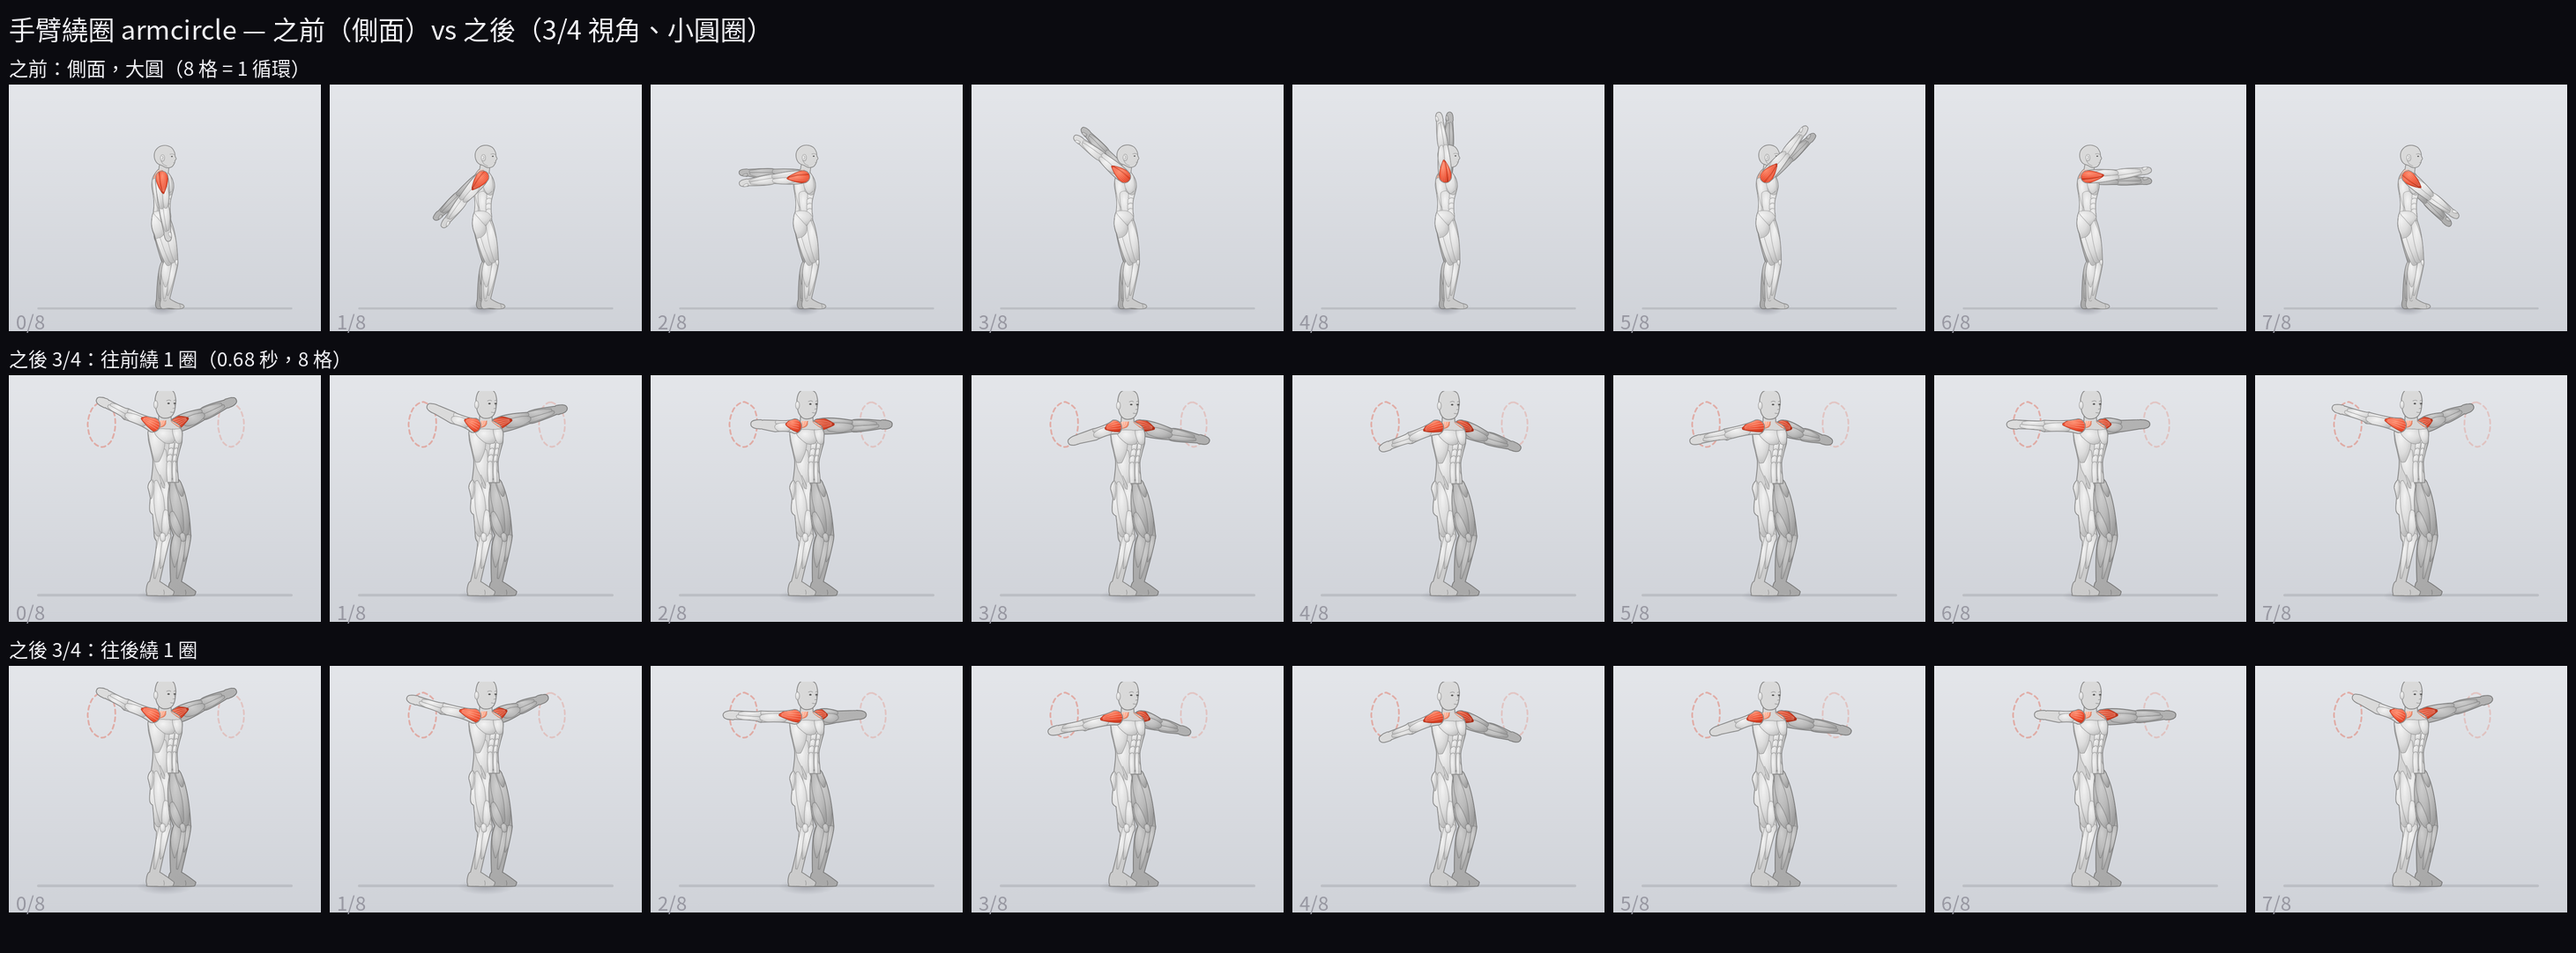
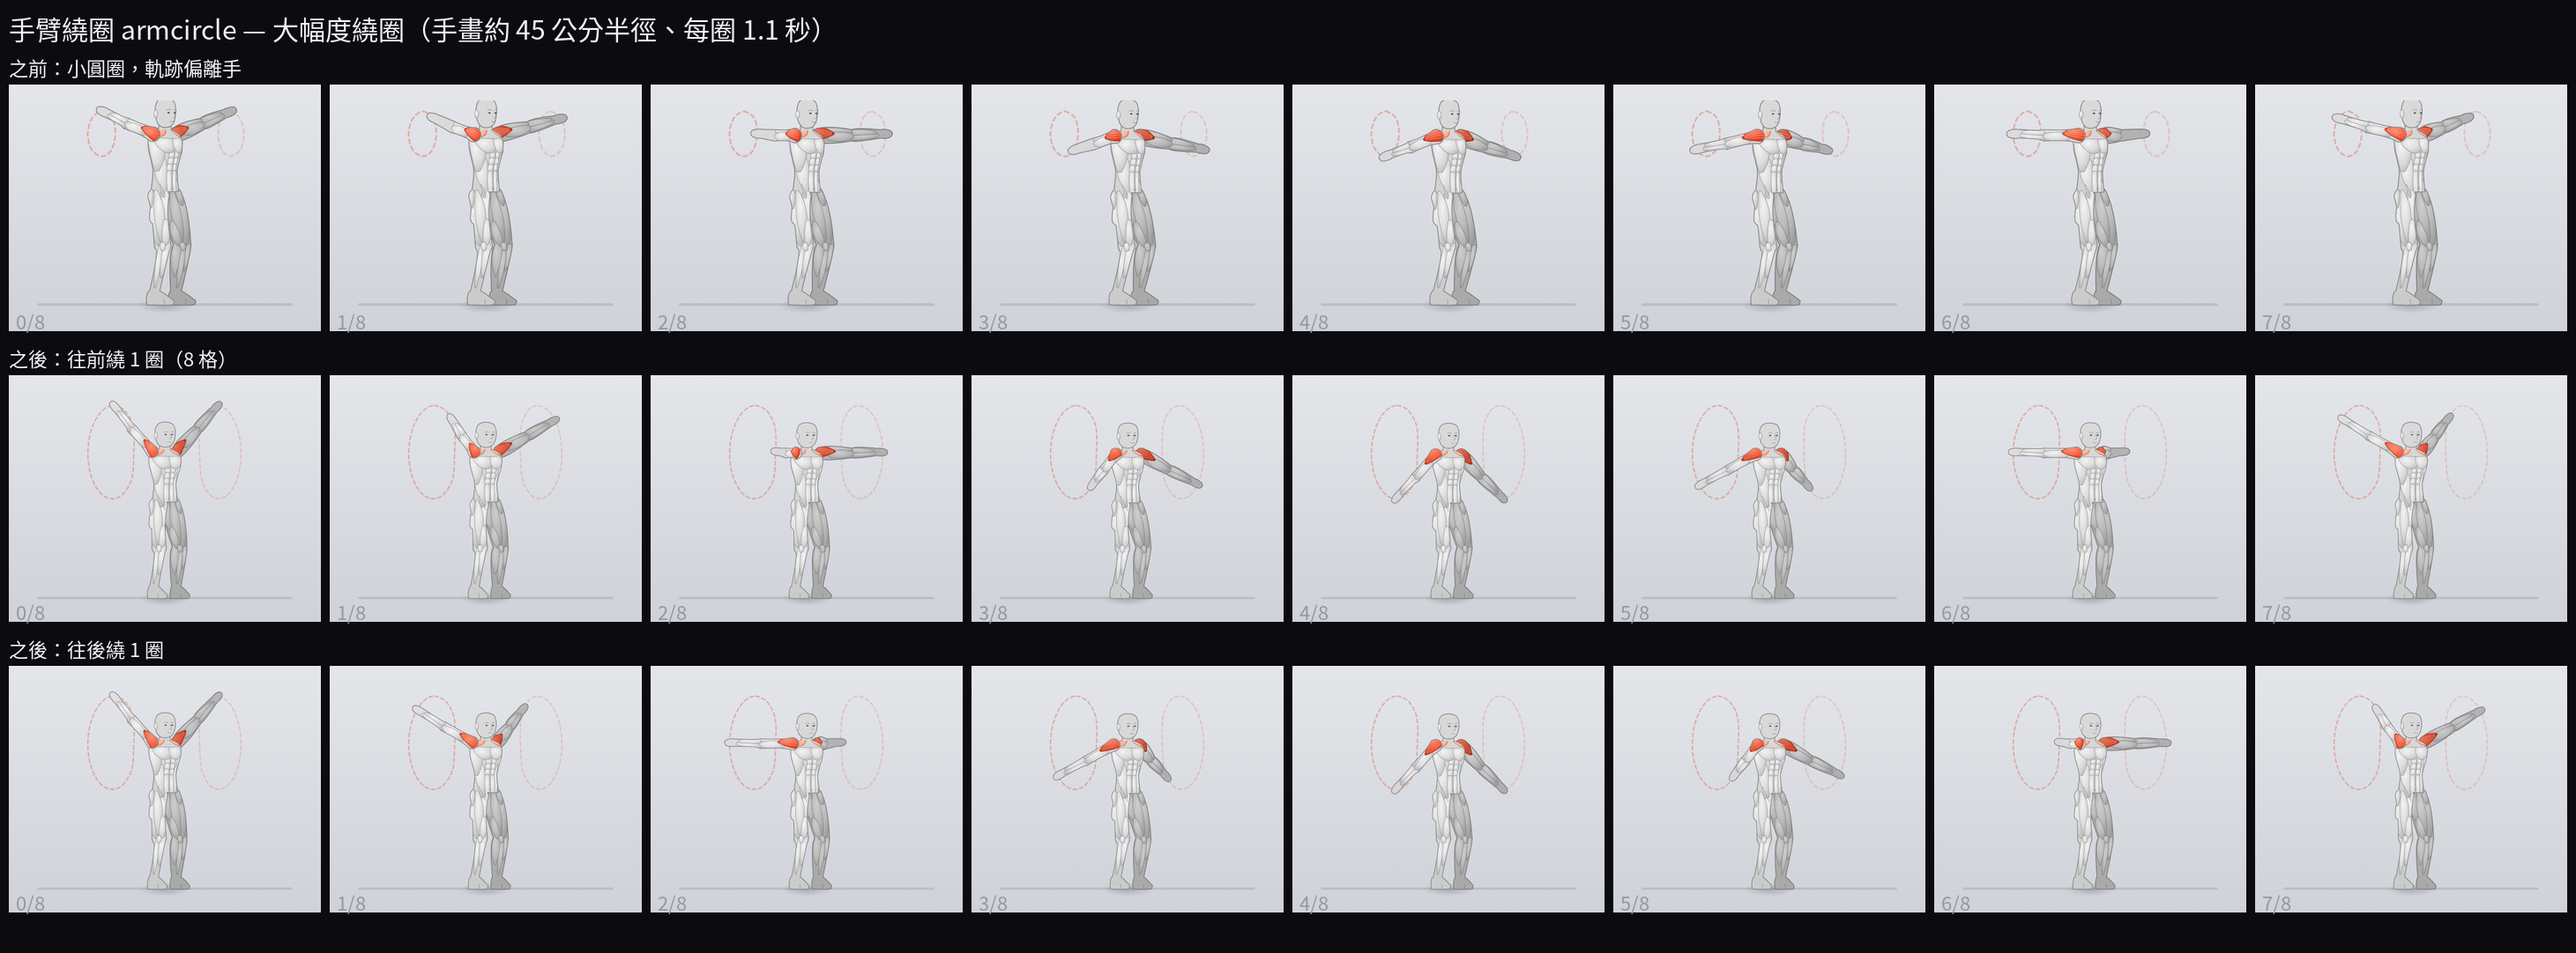
Arm circles: big shoulder-driven circles (~45 cm radius, 1.1 s each, 4 fwd + 4 back), shrug + shoulder roll, 30° 3/4 view; trail sampled at the drawn hand centre so the hand rides on it; updated steps

diff --git a/src/components/figure/demos.ts b/src/components/figure/demos.ts
@@ -195,20 +195,37 @@ const BEHIND_HEAD = { armN: { a: 150, b: 117, fu: 0.7, fs: 0.63, rel: true }, ar
 
 /* ---- 手臂繞圈 (arm circles, 3/4 view) ---- */
 const ARM_YAW = 45
-const AC_PER = 8 // keys per circle
-const AC_STEP = 85 // ms per key → 0.68 s per circle
-const AC_R = 16 // circle radius in degrees at the shoulder (≈ 15 cm at the hand)
+// big circles sweep the hand 44° forward of the T: at 45° yaw the near arm would point straight at the camera
+const AC_YAW = 30
+const AC_PER = 12 // keys per circle
+const AC_STEP = 92 // ms per key → 1.1 s per circle
+const AC_R = 44 // cone half-angle at the shoulder: hand ≈ 39 units (≈ 65 cm) out → circle radius ≈ 27 units ≈ 45 cm
 const AC_STAND = hipY(100, 180, FLAT(108), FLAT(92), 1.3)
 function armCircleKeys(): Key[] {
   const keys: Key[] = []
   const n = AC_PER * 4
+  const R = (AC_R * Math.PI) / 180
   for (let i = 0; i < 2 * n; i++) {
-    // forward circles: hand goes up → forward → down → back; then the same path backwards
+    // forward circles: hand goes top → front → bottom → back; then the same path in reverse
     const ph = (i < n ? i : 2 * n - i) / AC_PER
-    const a = ph * Math.PI * 2
-    const arm: LimbKey = { a: 90 + AC_R * Math.cos(a), f: AC_R * Math.sin(a), k: 4, b: 3, e: 90 + AC_R * Math.cos(a) }
-    const bob = 0.35 * (1 - Math.cos(a)) // tiny dip each time the hands pass the bottom
-    keys.push(k([100, AC_STAND + bob], 180, { armN: { ...arm }, armF: { ...arm }, legN: ff(108), legF: ff(92) }, { pa: 180, sh: 0.5 + 0.35 * Math.cos(a), h: 180 }))
+    const t = ph * Math.PI * 2
+    const c = Math.cos(t)
+    const sn = Math.sin(t)
+    // exact cone around the T-pose axis: [out, down, forward]
+    const d = [Math.cos(R), -Math.sin(R) * c, Math.sin(R) * sn]
+    const a = (Math.atan2(d[0], d[1]) * 180) / Math.PI
+    const f = (Math.asin(d[2]) * 180) / Math.PI
+    const arm: LimbKey = { a, f, k: 4, b: 3, e: a }
+    // knees give a little as the hands sweep down, shoulders shrug up at the top and roll forward in front
+    const bob = 0.7 * (1 - c) * 0.5
+    keys.push(
+      k([100, AC_STAND + bob], 180, { armN: { ...arm }, armF: { ...arm }, legN: ff(108), legF: ff(92) }, {
+        pa: 180,
+        sh: 0.25 + 0.75 * (1 + c),
+        pz: 1.8 * sn,
+        h: 180,
+      }),
+    )
   }
   return keys
 }
@@ -520,9 +537,9 @@ export const DEMOS: Record<DemoKey, Demo> = {
   // 手臂繞圈 (3/4 view): arms straight out at shoulder height, hands draw small circles (4 forward, 4 back);
   // the circle plane faces sideways so the camera sees it as an ellipse
   armcircle: {
-    view: view(100, 150),
+    view: view(100, 176),
     front: true,
-    yaw: ARM_YAW,
+    yaw: AC_YAW,
     smooth: true,
     headLag: 0.01,
     keys: armCircleKeys(),

diff --git a/src/components/figure/rig.ts b/src/components/figure/rig.ts
@@ -60,6 +60,8 @@ export interface Key {
   pa?: number
   /** shoulder elevation (shrug) */
   sh?: number
+  /** front/3/4: shoulder protraction (+ = shoulders roll forward, toward the face direction) */
+  pz?: number
   /** neck angle relative to torso */
   n?: number
   /** absolute head angle (overrides n) */
@@ -122,6 +124,8 @@ export interface LimbOut {
   fu: number
   /** depth of the mid joint / end toward the camera (front view) */
   zm: number
+  /** 3/4: depth of the limb root (shoulder protraction) */
+  zr?: number
   ze: number
   /** front view: foot up on the toes (0–1) */
   toe: number
@@ -385,6 +389,7 @@ function applyYaw(f: Frame, yaw: number): Frame {
     const l = f[name]
     const arm = isArm(name)
     const root = C(l.root)
+    root[0] += (l.zr ?? 0) * sy
     const dm = sub(l.mid, l.root)
     const de = sub(l.end, l.mid)
     const mid: V = [root[0] + dm[0] * cy + l.zm * sy, root[1] + dm[1]]
@@ -486,10 +491,11 @@ export class Rig {
     const T = c.n((r) => r.key.t)
     const pa = c.n((r) => r.pa)
     const sh = c.n((r) => r.key.sh ?? 0)
+    const pz = c.n((r) => r.key.pz ?? 0)
     const bothHeadAbs = ch.A.key.h !== undefined && ch.B.key.h !== undefined
     const headA = bothHeadAbs ? ch.an((r) => r.key.h!, (r) => r.key.h !== undefined) : T + ch.n((r) => r.neck)
     const front = this.front
-    return this.build(p, T, pa, sh, headA, (name, root, fc) => {
+    return this.build(p, T, pa, sh, pz, headA, (name, root, fc) => {
       const cc = isArm(name) ? ca : c
       const a = cc.A.limbs[name]
       const b = cc.B.limbs[name]
@@ -543,7 +549,7 @@ export class Rig {
     })
   }
 
-  private build(p: V, T: number, pa: number, sh: number, headA: number, limb: (n: LimbName, root: V, fc: number) => LimbOut): Frame {
+  private build(p: V, T: number, pa: number, sh: number, pz: number, headA: number, limb: (n: LimbName, root: V, fc: number) => LimbOut): Frame {
     const { axis, fwd, S } = bodyFrame(p, T)
     const front = this.front
     const pAxis = front ? dir(pa) : axis
@@ -554,6 +560,7 @@ export class Rig {
     const head = add(add(neckBase, hd, 9.2), hf, front ? 0 : 1.1)
     const f: Partial<Frame> = { front, p, T, S, axis, fwd, pa: front ? pa : T, pAxis, pFwd, neckBase, head, headA, yaw: 0 }
     for (const name of LIMBS) f[name] = limb(name, limbRoot(name, p, S, fwd, front, pFwd, axis, sh), fcOf(name, front))
+    if (front && pz) for (const name of ['armN', 'armF'] as const) f[name] = { ...f[name]!, zr: pz }
     const yaw = front ? this.opts.yaw ?? 0 : 0
     return yaw ? applyYaw(f as Frame, yaw) : (f as Frame)
   }

diff --git a/src/components/ExerciseFigure.tsx b/src/components/ExerciseFigure.tsx
@@ -2,8 +2,8 @@ import { Fragment, useEffect, useId, useLayoutEffect, useMemo, useRef, useState 
 import type { DemoKey } from '../types'
 import { TARGETS, type MuscleId, type Targets } from './figure/anatomy'
 import { DEMOS, GROUND } from './figure/demos'
-import { drawFrame, figureLayers, groundClamp, shadowOf } from './figure/draw'
-import { dir as dirOf, Rig } from './figure/rig'
+import { drawFrame, figureLayers, groundClamp, handCentre, shadowOf } from './figure/draw'
+import { Rig } from './figure/rig'
 
 interface Props {
   demo: DemoKey
@@ -93,18 +93,19 @@ export default function ExerciseFigure({ demo, size = '100%', playing = true, sp
   }, [])
   const spec = useMemo(() => buildSpec(!!d.front, !!d.headFront, highlight ? tg : NO_TARGETS, lite, d.yaw ?? 0), [d, tg, highlight, lite])
   const shadowRef = useRef<SVGEllipseElement>(null)
-  // faint loop traced by each hand (static: the body barely moves), e.g. arm circles
+  // faint loop traced by each hand (e.g. arm circles): sampled from the very frames that are drawn,
+  // at the centre of the drawn hand, so the hand always rides on its trail
   const trail = useMemo(() => {
     if (!d.trail) return null
     const [a, b] = d.trail
+    const N = 72
     const paths: string[] = []
     for (const name of ['armF', 'armN'] as const) {
       const pts: string[] = []
-      for (let i = 0; i <= 32; i++) {
-        const fr = groundClamp(rig.at(a + ((b - a) * i) / 32), GROUND)
-        const l = fr[name]
-        const hd = dirOf(l.ea, l.fc)
-        pts.push(`${(l.end[0] + hd[0] * 3).toFixed(1)} ${(l.end[1] + hd[1] * 3).toFixed(1)}`)
+      for (let i = 0; i < N; i++) {
+        const l = groundClamp(rig.at(a + ((b - a) * i) / N), GROUND)[name]
+        const c = handCentre(l)
+        pts.push(`${c[0].toFixed(2)} ${c[1].toFixed(2)}`)
       }
       paths.push('M' + pts.join('L') + 'Z')
     }

diff --git a/src/data/exercises.ts b/src/data/exercises.ts
@@ -156,7 +156,7 @@ export const EXERCISES: Exercise[] = [
   {
     id: 'armcircle', name: '手臂繞圈', en: 'Arm Circles', group: '上肢', muscles: ['三角肌', '斜方肌'],
     difficulty: 1, type: 'time', defaultSeconds: 30, kcalPerMin: 3, demo: 'armcircle', cat: 'aero', quiet: true,
-    steps: ['站直，雙腳與肩同寬，膝蓋微彎', '雙手往兩側平舉到肩膀高度，手肘伸直但不鎖死、掌心朝下', '用肩膀帶動，雙手往前畫小圓圈（約 15–20 公分），連續不停', '繞 4 圈後換方向往後繞，肩膀放鬆不要聳肩'],
+    steps: ['站直，雙腳與肩同寬，膝蓋微彎', '雙手往兩側平舉到肩膀高度，手肘伸直但不鎖死', '由肩膀帶動，雙手往前大幅度繞圈（約 40–50 公分），每圈約 1 秒，不要甩太快', '繞 4 圈後換方向往後繞，身體保持穩定、肩膀放鬆'],
     tip: '很適合當熱身，能活動肩關節、讓上半身暖起來。',
   },
   {

diff --git a/src/components/figure/draw.ts b/src/components/figure/draw.ts
@@ -484,6 +484,10 @@ const FOOT_FRONT: V[] = [
 const HAND: V[] = [
   [0.1, -1.8], [2.0, -2.1], [3.9, -1.9], [5.3, -1.2], [5.8, -0.1], [5.4, 1.1], [3.9, 1.8], [2.0, 2.1], [0.1, 1.8],
 ]
+/** centre of the drawn hand (palm), e.g. for motion trails */
+export function handCentre(lb: LimbOut): V {
+  return add(lb.end, dir(lb.ea, lb.fc), 0.3 + 3.0)
+}
 
 export interface Parts {
   [k: string]: string
